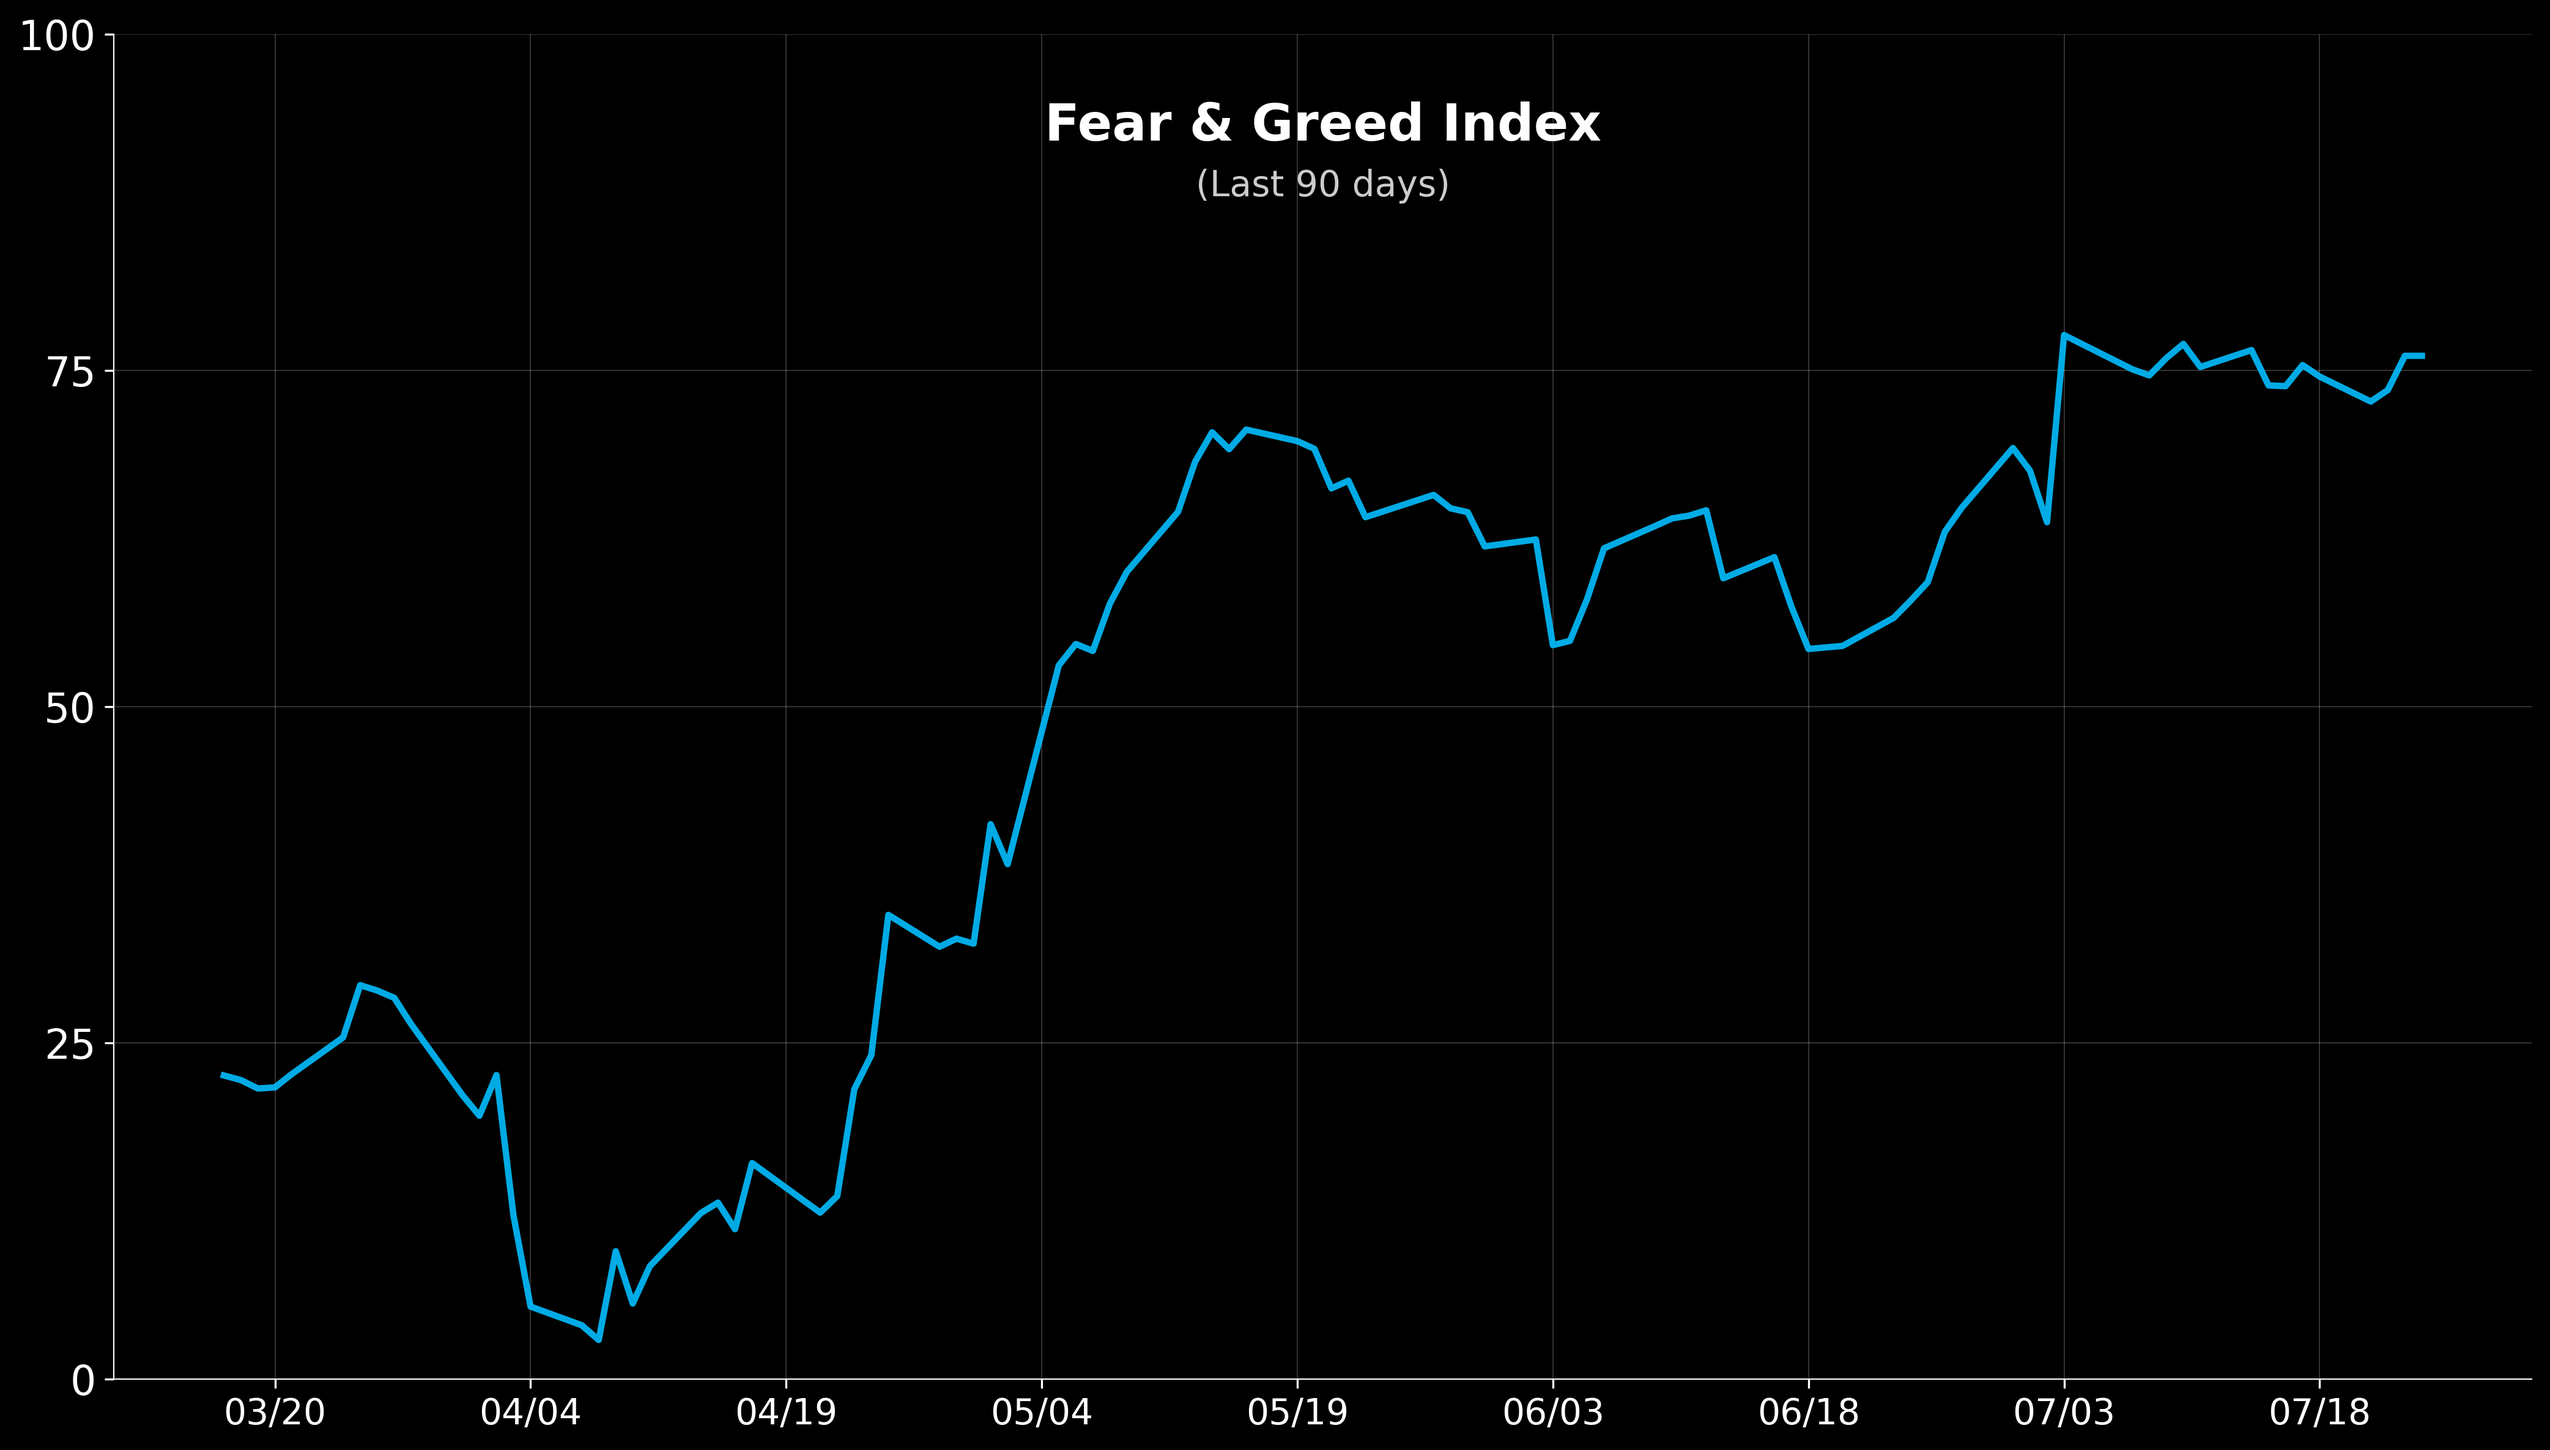
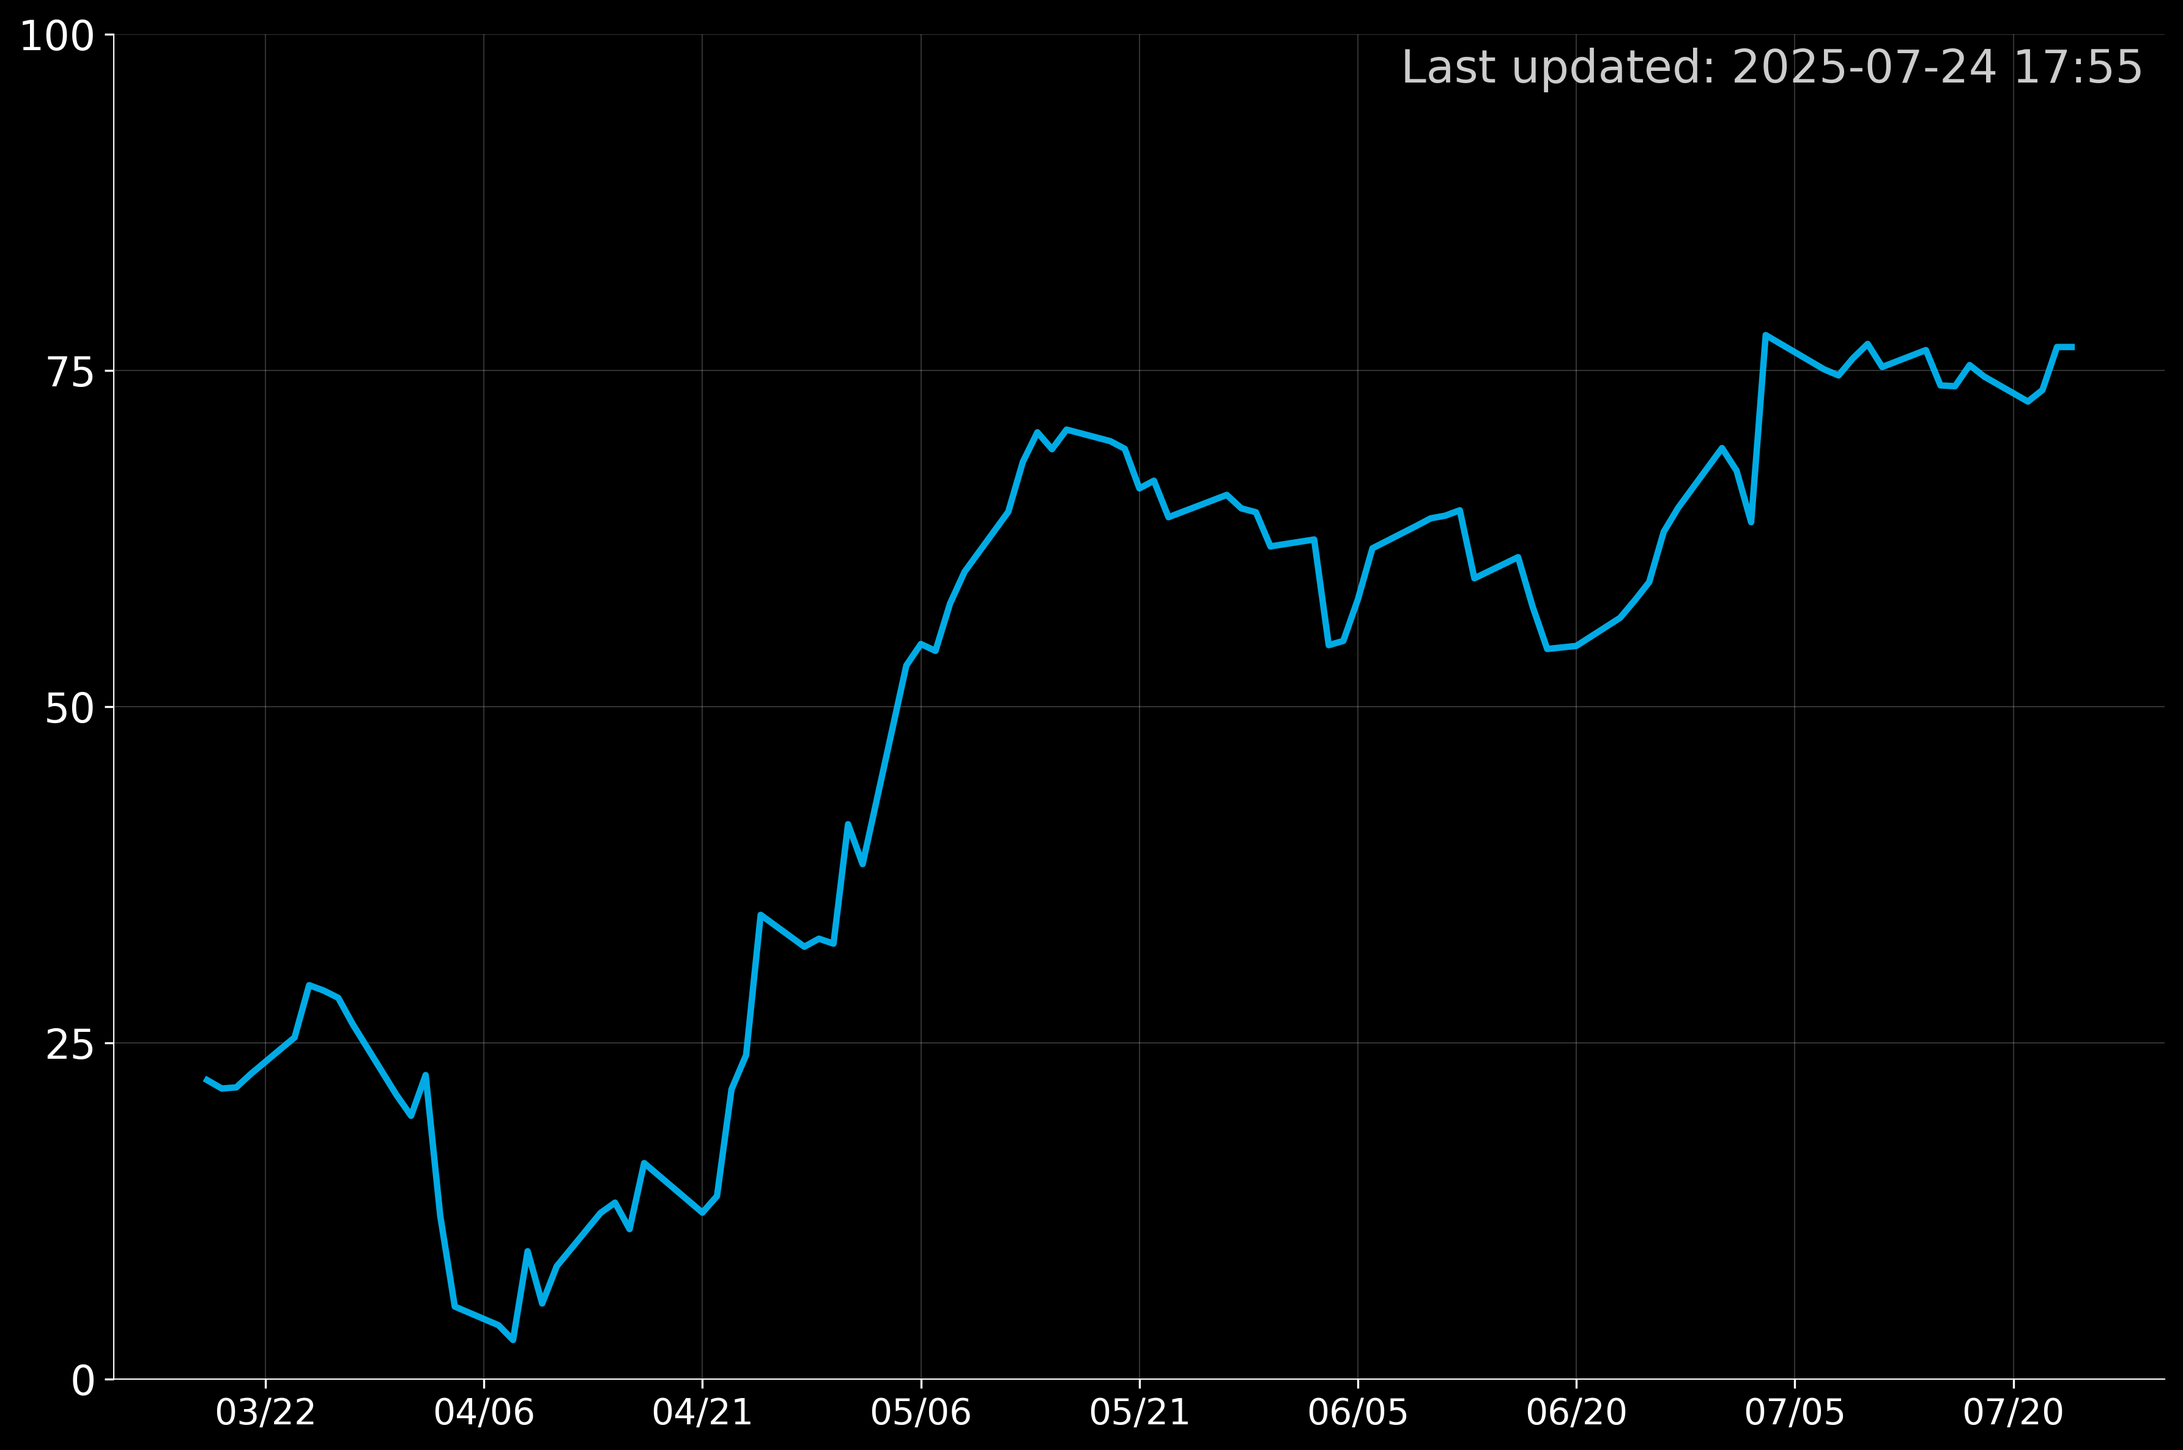
사이즈 조정

diff --git a/api/gen_graph.py b/api/gen_graph.py
@@ -30,7 +30,7 @@ def create_fear_greed_graph(days: int = 90, save_path: str = "gen_data/fear_gree
         values = [item['value'] for item in data]
         
         # 그래프 생성
-        fig, ax = plt.subplots(figsize=(14, 8))
+        fig, ax = plt.subplots(figsize=(12, 8))
         
         # 배경을 검은색으로 설정
         ax.set_facecolor('black')
@@ -58,16 +58,20 @@ def create_fear_greed_graph(days: int = 90, save_path: str = "gen_data/fear_gree
         ax.set_xlabel('')
         ax.set_ylabel('')
         
-        # 제목 설정
-        title_text = "Fear & Greed Index"
-        subtitle_text = f"(Last {days} days)"
-        
-        ax.text(0.5, 0.95, title_text, transform=ax.transAxes, 
-                fontsize=20, fontweight='bold', color='white', 
-                ha='center', va='top')
-        ax.text(0.5, 0.90, subtitle_text, transform=ax.transAxes, 
-                fontsize=14, color='#CCCCCC', 
-                ha='center', va='top')
+        # 제목 설정 제거
+        # title_text = "Fear & Greed Index"
+        # subtitle_text = f"(Last {days} days)"
+        # ax.text(0.5, 0.95, title_text, transform=ax.transAxes, 
+        #         fontsize=20, fontweight='bold', color='white', 
+        #         ha='center', va='top')
+        # ax.text(0.5, 0.90, subtitle_text, transform=ax.transAxes, 
+        #         fontsize=14, color='#CCCCCC', 
+        #         ha='center', va='top')
+        # last_updated 변수 선언 추가
+        last_updated = datetime.now().strftime("Last updated: %Y-%m-%d %H:%M")
+        # 우측 상단에 last updated
+        ax.text(0.99, 0.99, last_updated, transform=ax.transAxes,
+                fontsize=18, color='#CCCCCC', ha='right', va='top')
         
         # 축 테두리 색상 설정
         ax.spines['top'].set_visible(False)

diff --git a/api/gen_ui.py b/api/gen_ui.py
@@ -35,7 +35,7 @@ def create_fear_greed_gauge(value: float, status: str, save_path: str = "gen_dat
         save_path: 저장할 파일 경로
     """
     # 그림 크기 설정
-    fig, ax = plt.subplots(figsize=(12, 8))
+    fig, ax = plt.subplots(figsize=(8, 8))
     ax.set_xlim(-1.2, 1.2)
     ax.set_ylim(-0.2, 1.2)
     ax.set_aspect('equal')
@@ -87,23 +87,23 @@ def create_fear_greed_gauge(value: float, status: str, save_path: str = "gen_dat
     ax.add_patch(center_circle)
     
     # 값 표시
-    ax.text(0, -0.3, f"{int(value)}", fontsize=62, fontweight='bold', 
+    ax.text(0, -0.3, f"{int(value)}", fontsize=44, fontweight='bold', 
             color='white', ha='center', va='center')
     
     # 상태 텍스트
     status_color = get_status_color(status)
     korean_status = get_status_korean(status)
-    ax.text(0, -0.5, korean_status, fontsize=48, fontweight='bold',
+    ax.text(0, -0.5, korean_status, fontsize=35, fontweight='bold',
             color=status_color, ha='center', va='center')
     
     # 현재 시간 표시
     current_time = datetime.now().strftime("%Y. %m. %d. %p %I:%M")
-    ax.text(0, -0.7, f"Last updated: {current_time}", fontsize=27,
+    ax.text(0, -0.7, f"Last updated: {current_time}", fontsize=19,
             color='#888888', ha='center', va='center')
     
-    # 제목
-    ax.text(0, 1.1, "Fear & Greed Index", fontsize=20, fontweight='bold',
-            color='white', ha='center', va='center')
+    # 제목 제거
+    # ax.text(0, 1.1, "Fear & Greed Index", fontsize=20, fontweight='bold',
+    #         color='white', ha='center', va='center')
     
     plt.tight_layout()
     plt.savefig(save_path, facecolor='black', bbox_inches='tight', dpi=300)
